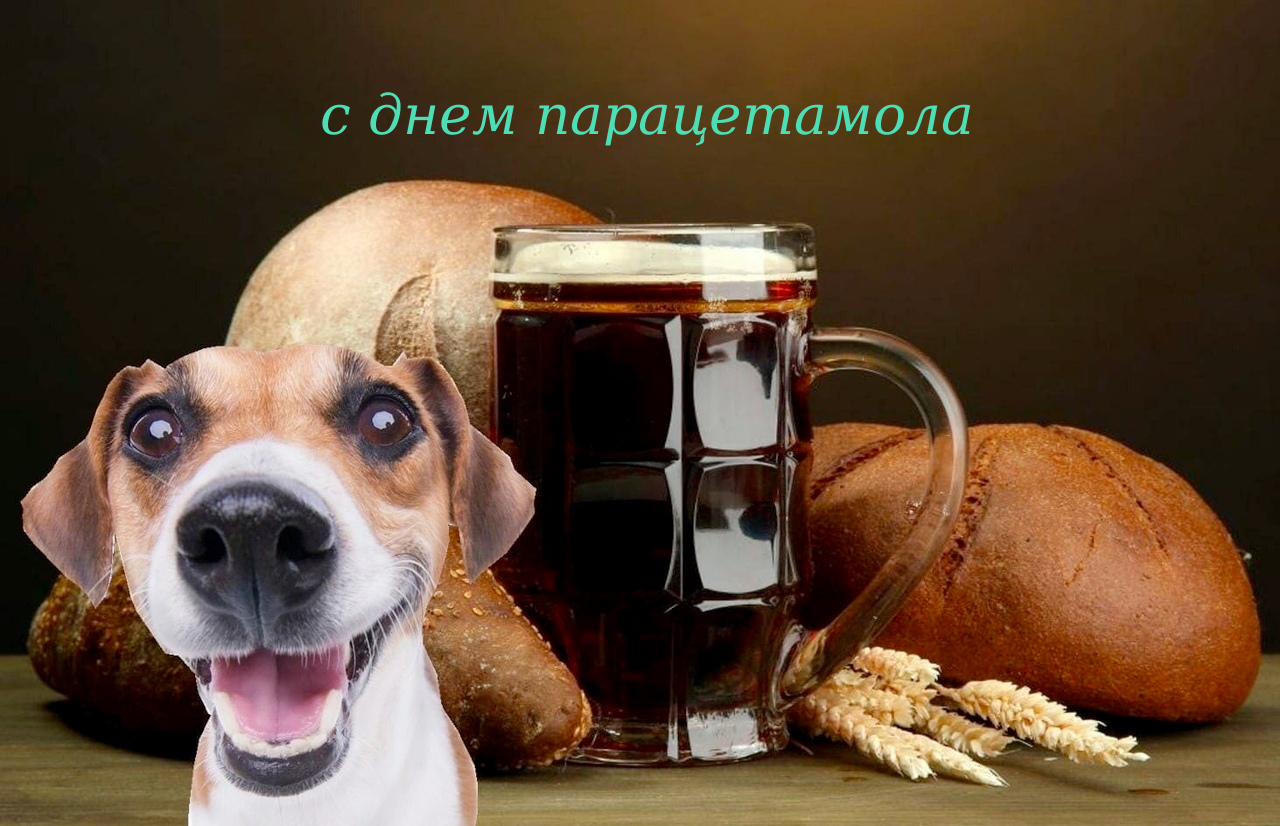
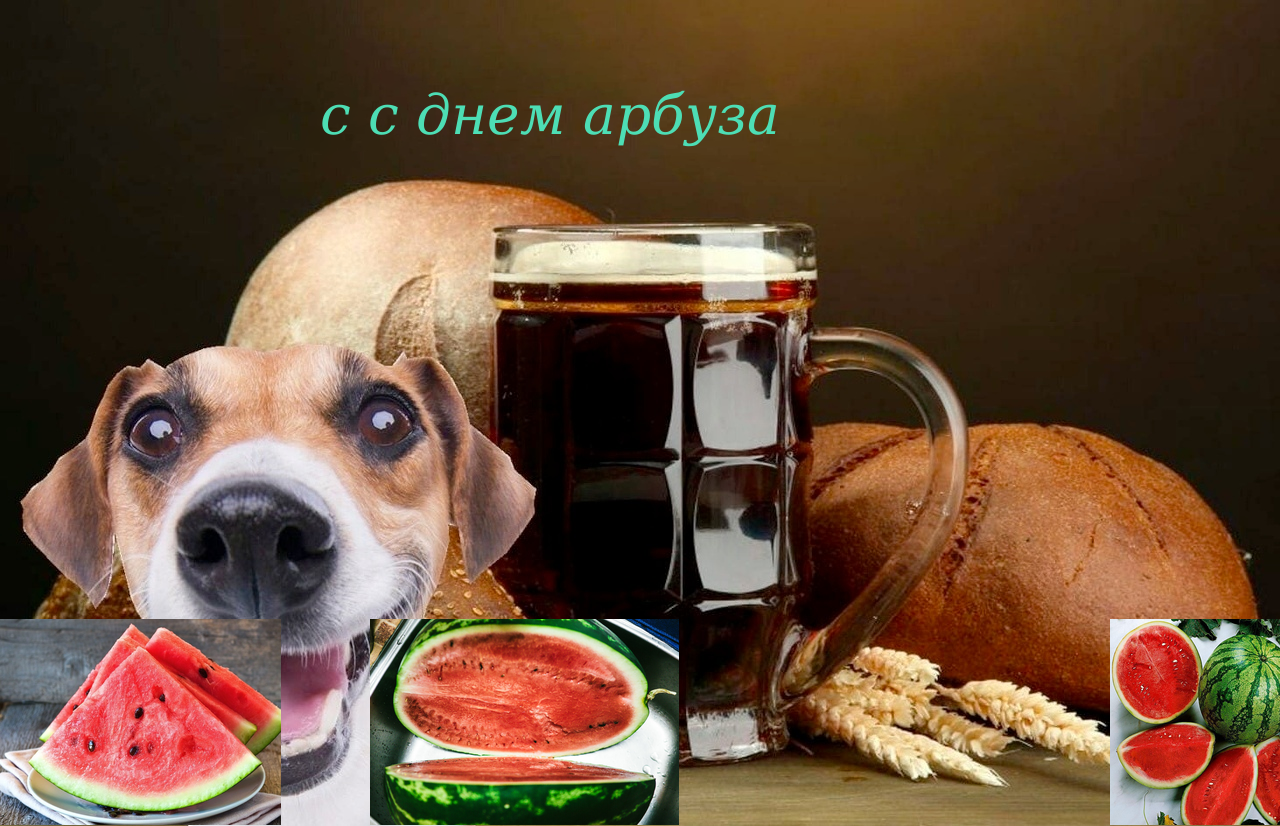
Alpha images api

diff --git a/botApi.py b/botApi.py
@@ -1,25 +1,38 @@
 import requests
 import vk_api
-import numpy as np
-
+from PIL import ImageFont, ImageDraw, Image
 from vk_api.bot_longpoll import VkBotLongPoll, VkBotEventType
 from vk_api.keyboard import VkKeyboard, VkKeyboardColor
 
 import bdApi
+from imgApi import searchImages, getImageData
 from pivoParser import parsePyaterochka, parseMagnit, parseKb
 from pivoParserSelenium import *
-from PIL import ImageFont, ImageDraw, Image
 
 
 def cv2_images(text):
     # Write some Text
-
+    query = text[7:]
     r, g, b, a = 181, 222, 77, 1
     font = ImageFont.truetype("font.ttf", 55)
+
     img_pil = Image.open("img.png")
     draw = ImageDraw.Draw(img_pil)
+    new_img_size = img_pil.size[0] / 4, img_pil.size[1] / 4
+
+    images = searchImages(query)
+
+    for i in range(4):
+        try:
+            image_data = getImageData(images[i])
+            new_image = Image.open(image_data)
+            new_image.thumbnail(new_img_size, Image.ANTIALIAS)
+            img_pil.paste(new_image, (int(i * (new_img_size[0] + 50)), int(img_pil.size[1] - new_img_size[1])))
+        except:
+            print("Error fetching image with url:" + images[i])
 
     draw.text((img_pil.size[0] / 4, img_pil.size[1] / 10), text, font=font, fill=(b, g, r, a))
+
     img_pil.save('out.png')
 
 

diff --git a/imgApi.py b/imgApi.py
@@ -1,0 +1,19 @@
+import requests
+import json
+from io import BytesIO
+
+URL = "https://serpapi.com/search.json?engine=yandex_images&text={0}&api_key=d521ba18ea4e93e1570f476ece91918871b21eb4ba52ca7d0731764bb80e9cf7"
+
+
+def searchImages(query):
+    img_urls = []
+    req_url = URL.format(query)
+    res = requests.get(req_url)
+    response_json = json.loads(res.text)
+    for image in response_json['images_results']:
+        img_urls.append(image['original'])
+    return img_urls
+
+def getImageData(image_url):
+    image_resp = requests.get(image_url)
+    return BytesIO(image_resp.content)
